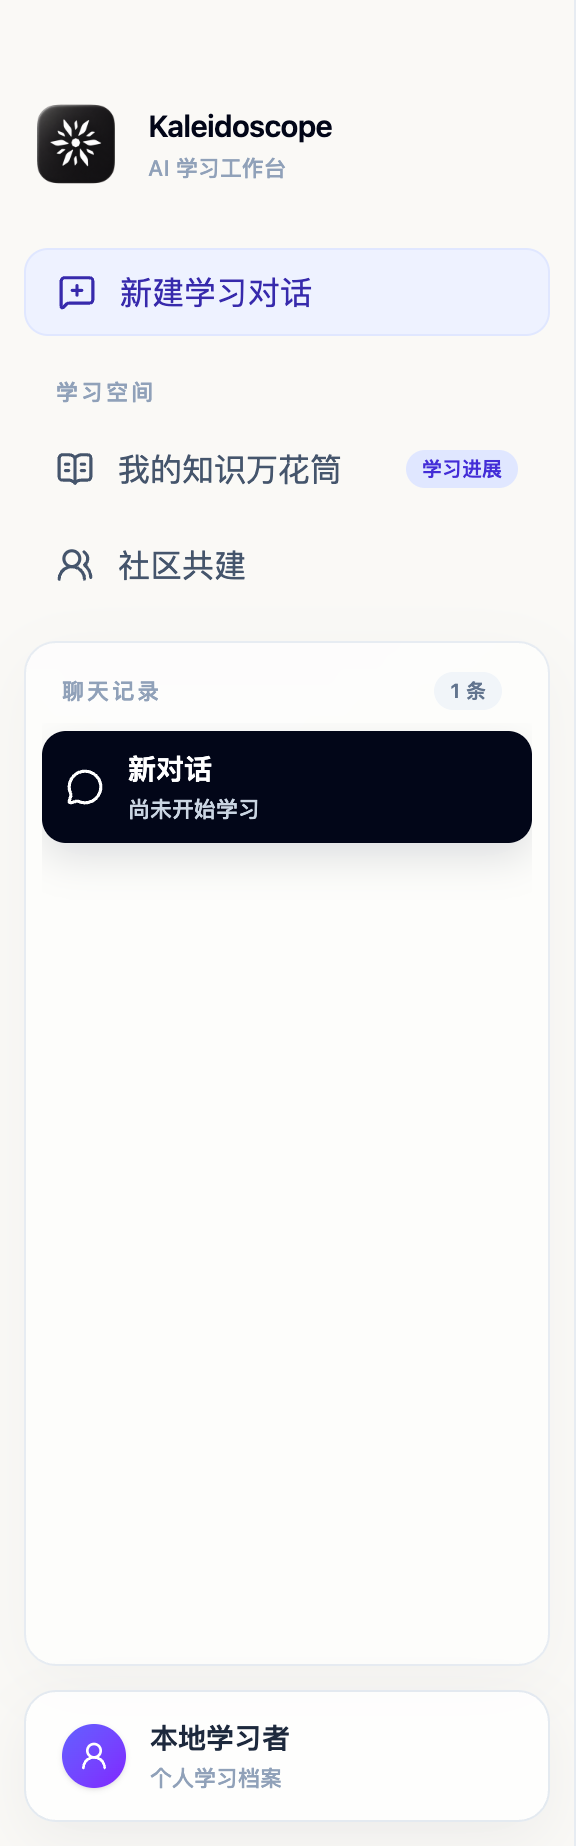
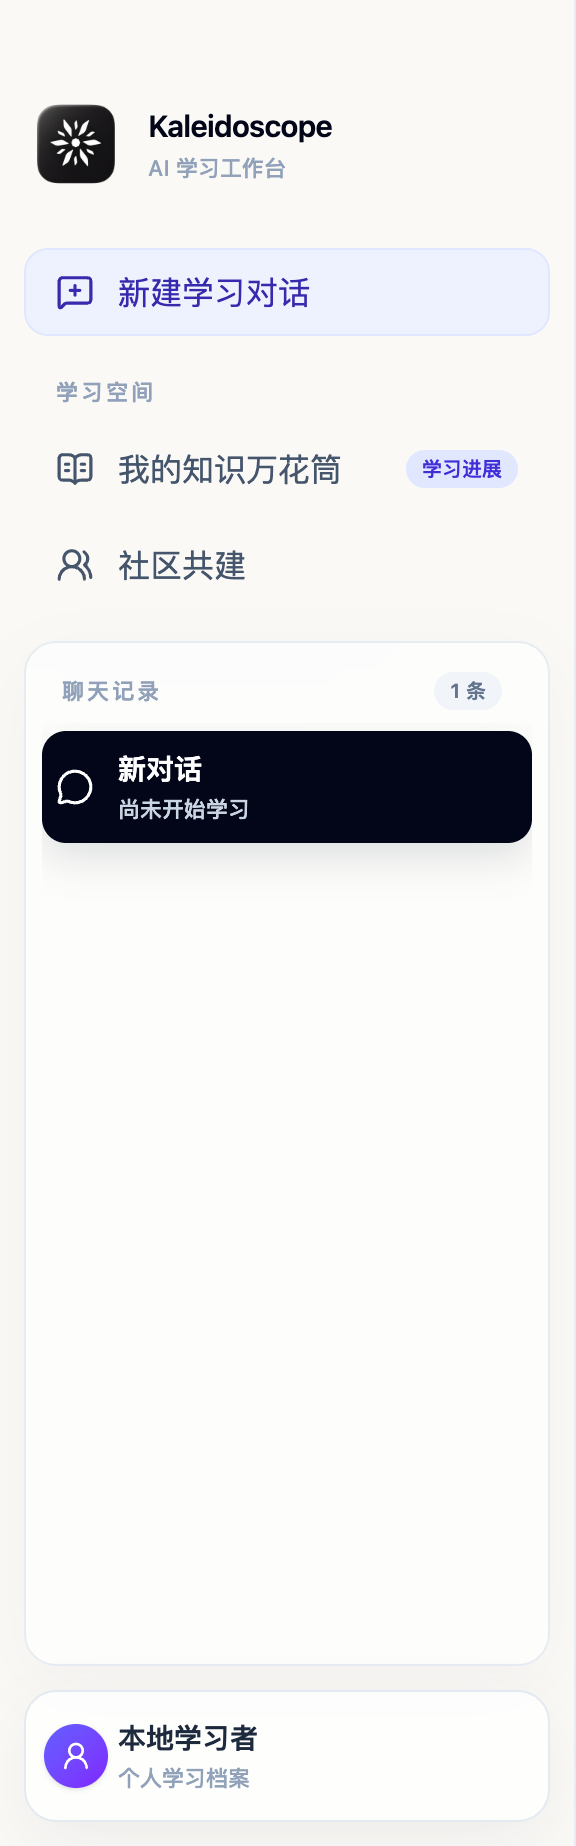
style(sidebar): 对齐展开与收起导航基线

diff --git a/e2e/navigation-sidebar.spec.ts b/e2e/navigation-sidebar.spec.ts
@@ -1,7 +1,28 @@
-import { expect, test, _electron as electron } from "@playwright/test";
+import {
+  expect,
+  test,
+  _electron as electron,
+  type Locator,
+} from "@playwright/test";
 import { mkdtemp, rm } from "node:fs/promises";
 import { tmpdir } from "node:os";
 import { join } from "node:path";
+
+async function horizontalCenter(locator: Locator): Promise<number> {
+  const box = await locator.boundingBox();
+  if (!box) {
+    throw new Error("Expected a visible element with a bounding box.");
+  }
+  return box.x + box.width / 2;
+}
+
+async function leftEdge(locator: Locator): Promise<number> {
+  const box = await locator.boundingBox();
+  if (!box) {
+    throw new Error("Expected a visible element with a bounding box.");
+  }
+  return box.x;
+}
 
 test("navigation sidebar expands without starting a conversation", async () => {
   const userData = await mkdtemp(
@@ -45,6 +66,36 @@ test("navigation sidebar expands without starting a conversation", async () => {
     await expect(
       sidebar.getByRole("region", { name: "聊天记录" }),
     ).toHaveCSS("border-top-color", "rgba(0, 0, 0, 0)");
+    const collapsedIconCenters = await Promise.all([
+      horizontalCenter(
+        sidebar
+          .getByRole("button", { name: "新建学习对话" })
+          .locator("svg"),
+      ),
+      horizontalCenter(
+        sidebar
+          .getByRole("button", { name: "我的知识万花筒" })
+          .locator("svg"),
+      ),
+      horizontalCenter(
+        sidebar
+          .getByRole("button", { name: "社区共建" })
+          .locator("svg"),
+      ),
+      horizontalCenter(
+        sidebar
+          .getByRole("button", { name: "打开聊天记录：新对话" })
+          .locator("svg"),
+      ),
+      horizontalCenter(
+        sidebar.getByRole("region", { name: "个人信息" }).locator("svg"),
+      ),
+    ]);
+    for (const center of collapsedIconCenters) {
+      expect(Math.abs(center - collapsedIconCenters[0])).toBeLessThanOrEqual(
+        1.5,
+      );
+    }
     await sidebar.screenshot({
       path: "artifacts/navigation-sidebar-collapsed.png",
     });
@@ -82,6 +133,46 @@ test("navigation sidebar expands without starting a conversation", async () => {
     ).toContainText("本地学习者");
     await expect(sidebar.getByText("帮助", { exact: true })).toHaveCount(0);
     await expect(sidebar.getByText("设置", { exact: true })).toHaveCount(0);
+    const expandedIconCenters = await Promise.all([
+      horizontalCenter(
+        sidebar
+          .getByRole("button", { name: "新建学习对话" })
+          .locator("svg"),
+      ),
+      horizontalCenter(
+        sidebar
+          .getByRole("button", { name: "我的知识万花筒" })
+          .locator("svg"),
+      ),
+      horizontalCenter(
+        sidebar
+          .getByRole("button", { name: "社区共建" })
+          .locator("svg"),
+      ),
+      horizontalCenter(
+        sidebar
+          .getByRole("button", { name: "打开聊天记录：新对话" })
+          .locator("svg"),
+      ),
+      horizontalCenter(
+        sidebar.getByRole("region", { name: "个人信息" }).locator("svg"),
+      ),
+    ]);
+    expandedIconCenters.forEach((center, index) => {
+      expect(Math.abs(center - collapsedIconCenters[index])).toBeLessThanOrEqual(
+        1.5,
+      );
+    });
+    const expandedLabelEdges = await Promise.all([
+      leftEdge(sidebar.getByText("新建学习对话", { exact: true })),
+      leftEdge(sidebar.getByText("我的知识万花筒", { exact: true })),
+      leftEdge(sidebar.getByText("社区共建", { exact: true })),
+      leftEdge(sidebar.getByText("新对话", { exact: true })),
+      leftEdge(sidebar.getByText("本地学习者", { exact: true })),
+    ]);
+    for (const edge of expandedLabelEdges) {
+      expect(Math.abs(edge - expandedLabelEdges[0])).toBeLessThanOrEqual(1.5);
+    }
     await page.evaluate(() => {
       if (document.activeElement instanceof HTMLElement) {
         document.activeElement.blur();

diff --git a/apps/desktop/src/renderer/components/NavigationRail.tsx b/apps/desktop/src/renderer/components/NavigationRail.tsx
@@ -123,7 +123,7 @@ export function NavigationRail({
               disabled={disabled}
               className={`flex cursor-pointer items-center overflow-hidden border border-indigo-100 bg-indigo-50 text-left text-sm font-semibold text-indigo-800 transition-[width,background-color,box-shadow,padding] duration-200 hover:bg-indigo-100 focus-visible:outline-none focus-visible:ring-2 focus-visible:ring-indigo-500 focus-visible:ring-offset-2 disabled:cursor-not-allowed disabled:opacity-45 motion-reduce:transition-none ${
                 expanded
-                  ? "min-h-11 w-full gap-3 rounded-xl px-4"
+                  ? "min-h-11 w-full gap-3 rounded-xl px-[15px]"
                   : "size-11 min-h-11 justify-center rounded-2xl px-0 shadow-[0_6px_16px_rgba(79,70,229,0.08)]"
               }`}
             >
@@ -257,7 +257,7 @@ export function NavigationRail({
                       : "text-slate-600 hover:bg-slate-100"
                   } ${
                     expanded
-                      ? "min-h-14 w-full gap-3 px-3"
+                      ? "min-h-14 w-full gap-3 px-[7px]"
                       : "mx-auto size-11 min-h-11 w-11 justify-center px-0"
                   }`}
                 >
@@ -296,7 +296,7 @@ export function NavigationRail({
         >
           <div
             className={`flex min-h-12 items-center rounded-xl transition-[padding,gap,background-color] duration-200 motion-reduce:transition-none ${
-              expanded ? "gap-3 px-2.5" : "justify-center px-0"
+              expanded ? "gap-[5px] px-px" : "justify-center px-0"
             }`}
           >
             <span
